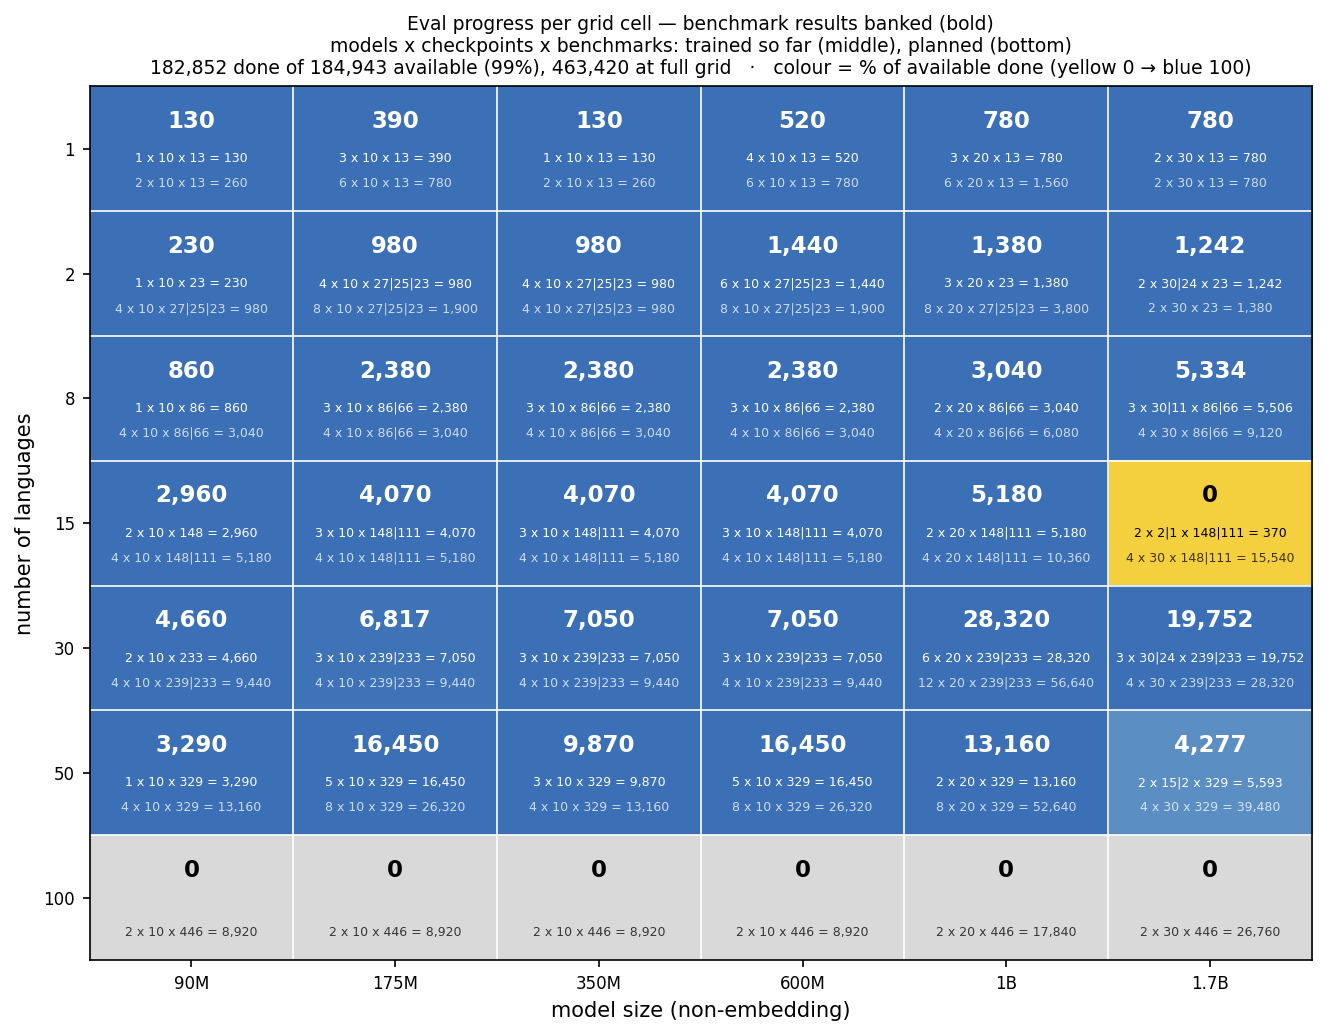
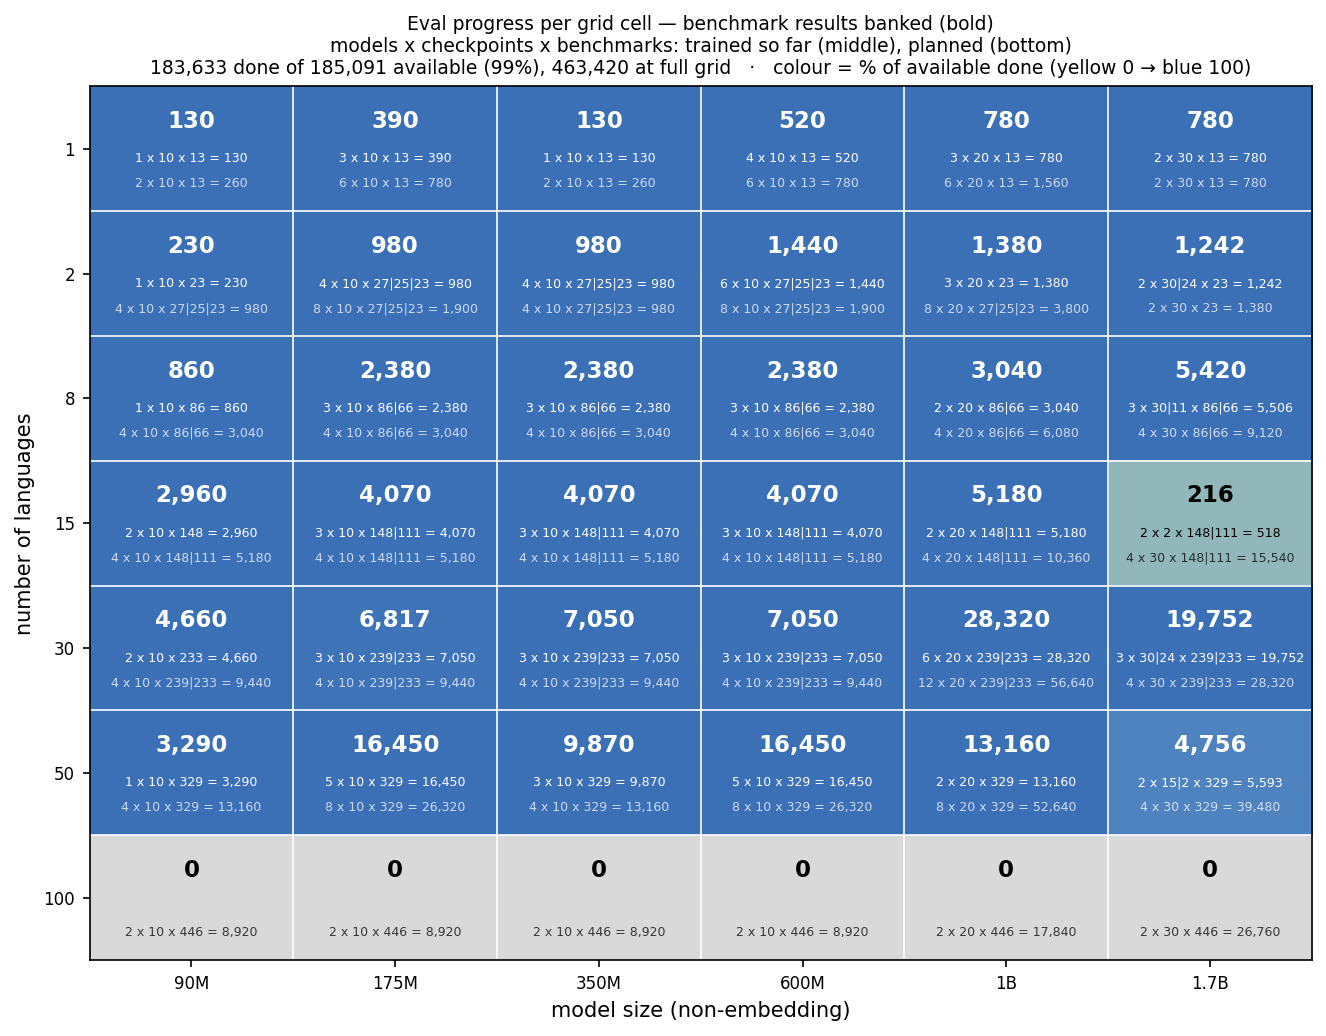
update progress

diff --git a/plan/todos/status-09-13.md b/plan/todos/status-09-13.md
@@ -41,6 +41,10 @@ eval --all-languages for all deep models:
 ✅ squeue --me -h -o '%i|%j' | awk -F'|' '$2 ~ /90M/ {print $1}' | xargs -r scancel
 
 ✅ python3.11 pretrain/ladder_report.py --plot --publish --push-hf --push-git
+✅ sbatch evals/scripts/mirror_eval_logs.sbatch 
+✅ bash evals/scripts/launch_bpb.sh
+✅ python3.11 pretrain/auto_evals_cscs.py --watch 1200
+✅ cd Projects/snr-multilingual/ && bash scripts/reservation_drain.sh --max-nodes 100 --interval 1800 --hours 14
 
 - ✅ resume 90M config comparison runs (4x)
 - ✅ resume 1.7B models
